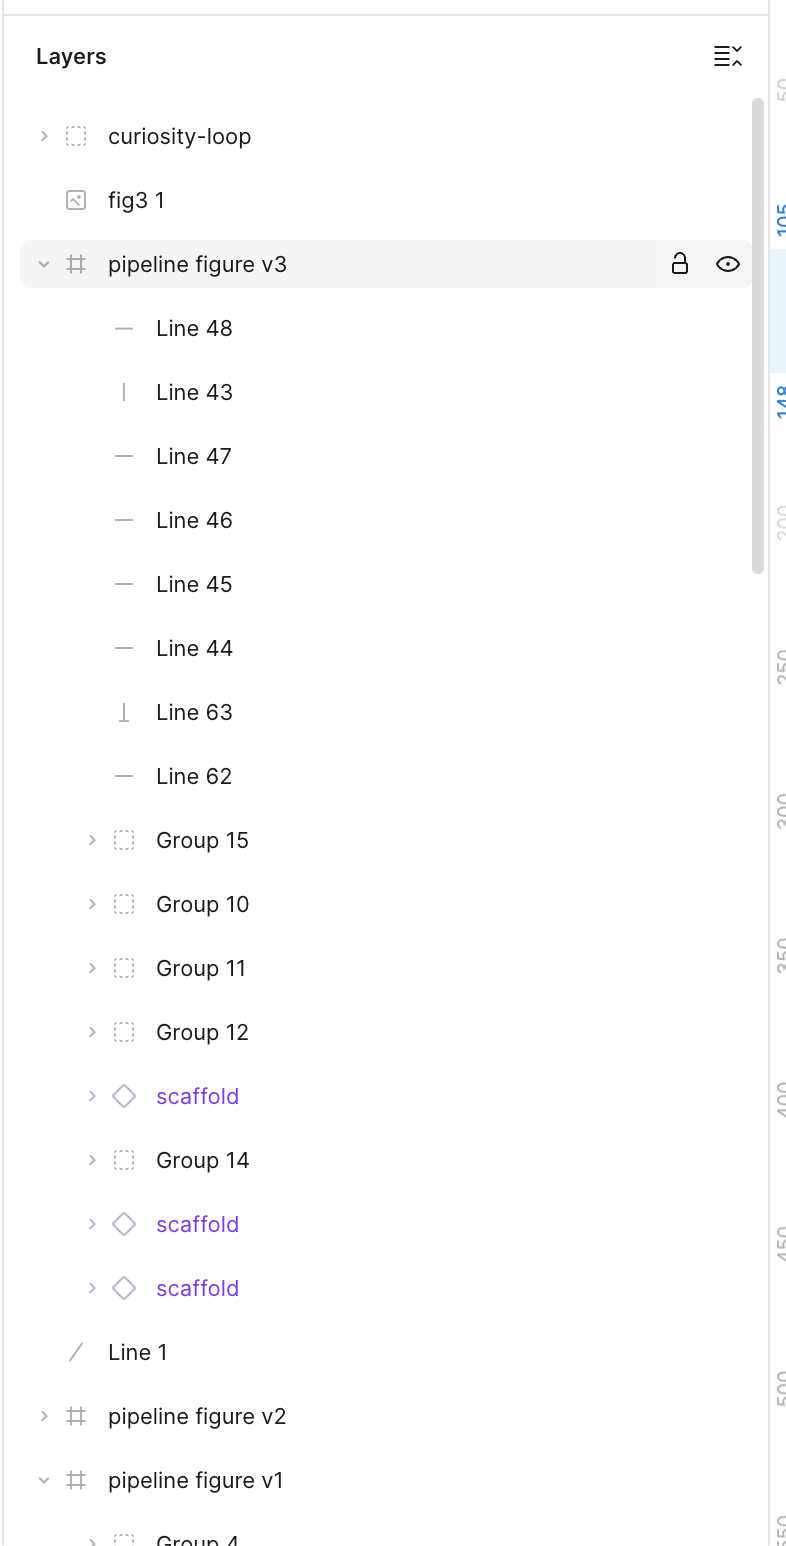
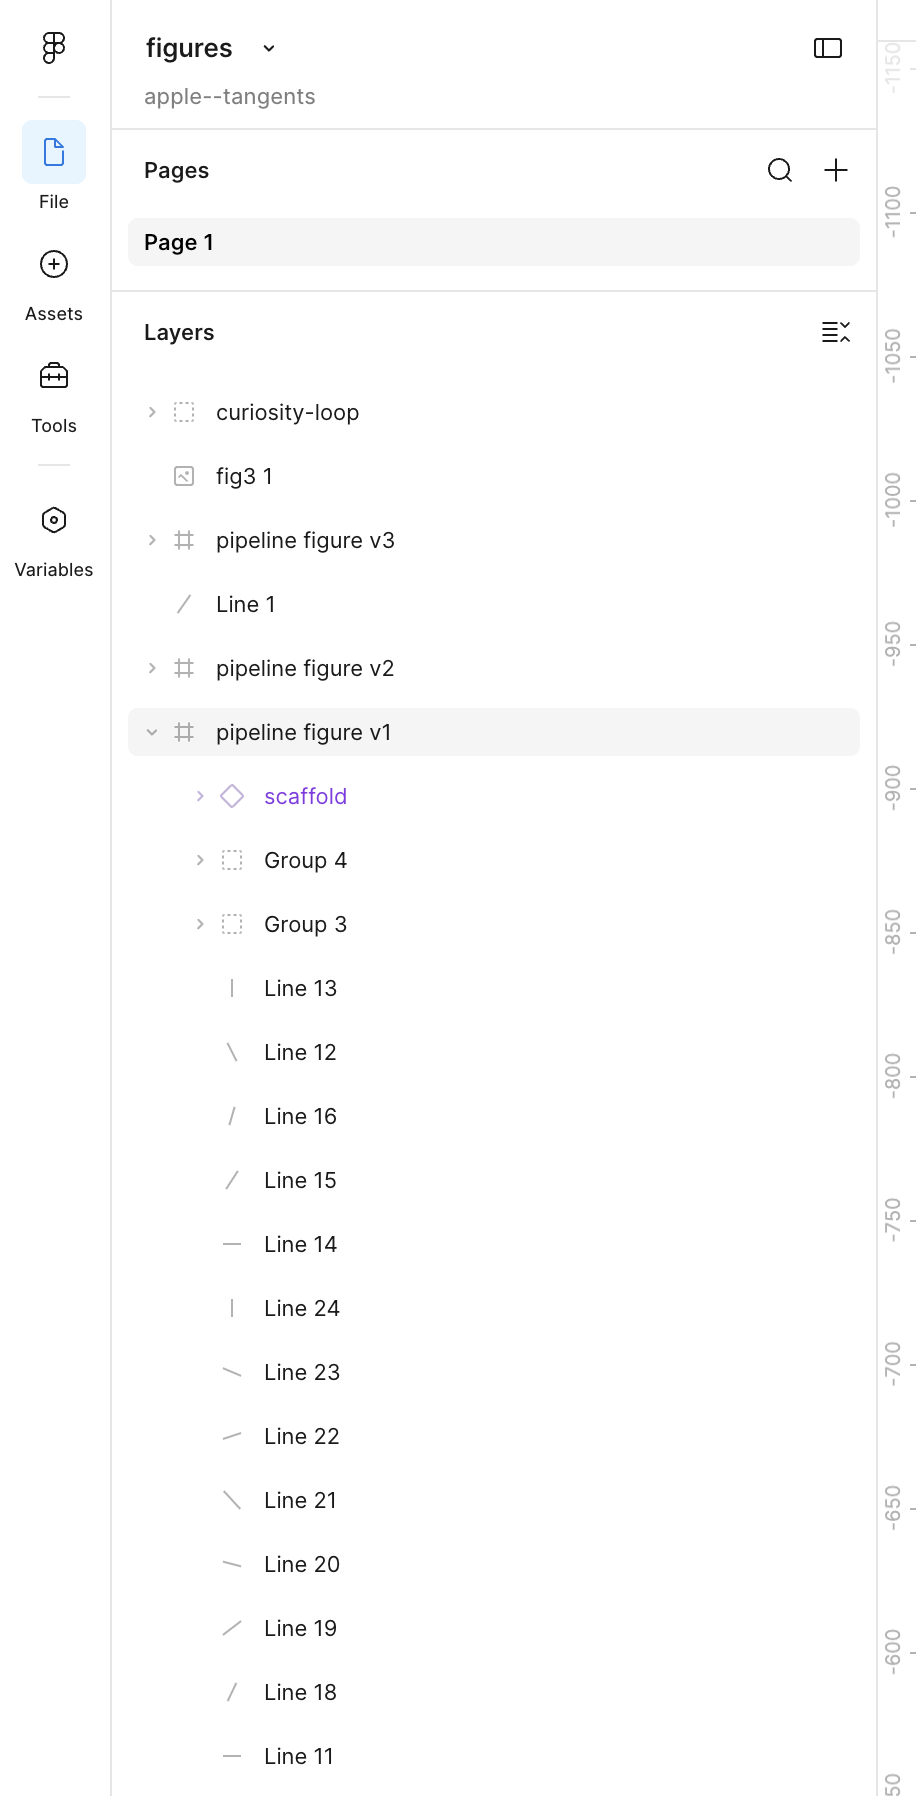
update design doc

diff --git a/docs/explanation/design.md b/docs/explanation/design.md
@@ -16,7 +16,18 @@ The background should look like md paper
 
 ## outline tree view
 
+Figma provides a tree view of the scene to complement the canvas view.
+I'd also like to provide a similar affordance.
 ![](../images/figma-tree-view.png)
+Key features:
+- "collapse all"
+- locking an object, show/hide
+- arrow keys to navigate
+- shift+click and cmd+click to select multiple
+- space to rename
+- same right-click menu as if I had right clicked on the object in the cavas
+
+![](../images/figma-tree-view-collapsed.png)
 
 ## importing a PDF
 
